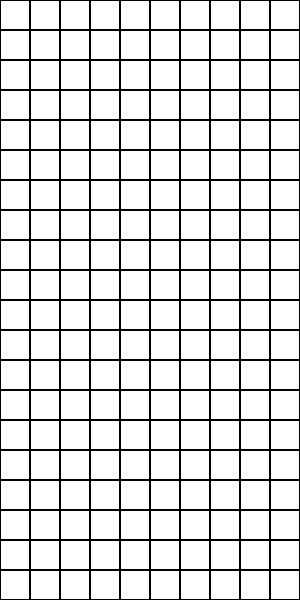
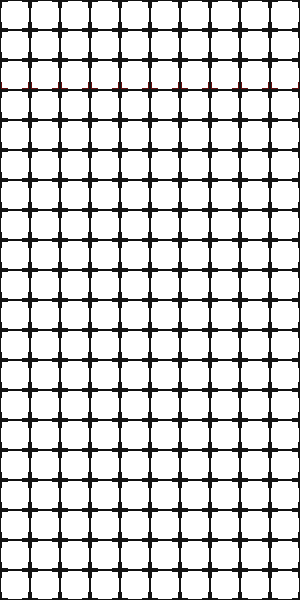
shadow blocks

diff --git a/logic/tetrisSP.ts b/logic/tetrisSP.ts
@@ -20,7 +20,7 @@ const arena: number[][] = createMatrix(10, 20); // Array(20).fill(null).map(() =
 const pieces = "IJLOSTZ";
 
 const player = {
-    pos: {x: 4, y: -6},
+    pos: {x: 4, y: -6, sy: 19},
     matrix: createPiece(""),
     followingMatrixes: [...Array(5)].map(_=>pieces[pieces.length*Math.random()|0]),
     score: 0,
@@ -62,13 +62,6 @@ const colors: object = {
     5: blockImg5,
     6: blockImg6,
     7: blockImg7,
-    // 1: '#00ffff',
-    // 2: '#0000ff',
-    // 3: '#ffa500',
-    // 4: '#ffff00',
-    // 5: '#00ff00',
-    // 6: '#ff00ff',
-    // 7: '#ff0000',
 };
 
 const playerControls = {
@@ -84,7 +77,8 @@ const playerControls = {
 
 type offsetInterface = {
     x: number,
-    y: number
+    y: number,
+    sy: number
 }
 
 type playerInterface = {
@@ -141,14 +135,13 @@ function blockHolderChange(type: string): string {
     }
 }
 
-function collide(arena: number[][], player: playerInterface) {
-    const [m, o] = [player.matrix, player.pos];
-
+function collide(arena: number[][], player: playerInterface, py: number) {
+    const [m, px] = [player.matrix, player.pos.x];
     for (let y=0; y<m.length; ++y) {
         for (let x=0; x<m[y].length; ++x) {
             if (m[y][x] !== 0 && 
-                (arena[y+o.y] && 
-                arena[y+o.y][x+o.x]) !== 0) {
+                (arena[y+py] && 
+                arena[y+py][x+px]) !== 0) {
                 return true;
             }
         }
@@ -194,13 +187,12 @@ function createPiece(type: string): number[][] {
         [0, 7, 7],
         [0, 0, 0],
     ]; else return createMatrix(3, 3);
-
 }
 
 function draw() {
     context.clearRect(0, 0, canvas.width, canvas.height);
     // context.fillStyle = "black";    // context.fillRect(0, 0, canvas.width, canvas.height);
-    drawMatrix(arena, {x: 0, y: 0})
+    drawMatrix(arena, {x: 0, y: 0, sy: 0})
     drawMatrix(player.matrix, player.pos);
 }
 
@@ -208,11 +200,21 @@ function drawMatrix(matrix:number[][], offset:offsetInterface): void {
     matrix.forEach((row, y) => {
         row.forEach((value, x) => {
             if(value != 0) {
+                context.globalAlpha = 1;
                 context.drawImage(Object(colors)[value], x + offset.x, y + offset.y, 1, 1)
+                context.globalAlpha = 0.3;
+                context.drawImage(Object(colors)[value], x + offset.x, y + offset.sy, 1, 1)
                 // context.fillStyle = Object(colors)[value];   // context.fillRect(x + offset.x, y + offset.y, 1, 1);
             }
         });
     });
+}
+
+function drawShadow() {
+    if (collide(arena, player, player.pos.sy)) 
+        player.pos.sy--;
+    else if (!collide(arena, player, player.pos.sy+1))
+        player.pos.sy++
 }
 
 function merge(arena: number[][], player: playerInterface) {
@@ -227,7 +229,7 @@ function merge(arena: number[][], player: playerInterface) {
 
 function playerDown() {
     player.pos.y++; 
-    if (collide(arena, player)) {
+    if (collide(arena, player, player.pos.y)) {
         player.pos.y--;
         merge(arena, player);
         playerReset();
@@ -238,7 +240,7 @@ function playerDown() {
 }
 
 function playerDrop() {
-    while (!collide(arena, player)) {
+    while (!collide(arena, player, player.pos.y)) {
         player.pos.y++;
     }
     player.pos.y--;
@@ -251,7 +253,7 @@ function playerDrop() {
 
 function playerMove(dir: number) {
     player.pos.x += dir;
-    if (collide(arena, player)) {
+    if (collide(arena, player, player.pos.y)) {
         player.pos.x -= dir;
     }
 }
@@ -266,7 +268,7 @@ function playerReset() {
     player.pos.x = (arena[0].length / 2 | 0) - (player.matrix[0].length / 2 | 0);
     player.useHolder = true;
 
-    if (collide(arena, player)) {
+    if (collide(arena, player, player.pos.y)) {
         arena.forEach(row => row.fill(0));
         player.score = 0;
         updateScore();
@@ -283,7 +285,7 @@ function playerRotate(dir: number) {
     const pos = player.pos.x;
     let offset = 1;
     rotate(player.matrix, dir);
-    while (collide(arena, player)) {
+    while (collide(arena, player, player.pos.y)) {
         player.pos.x += offset;
         offset = -(offset + (offset > 0 ? 1 : -1));
 
@@ -325,6 +327,7 @@ function update(time = 0) {
     }
 
     draw();
+    drawShadow();
     requestAnimationFrame(update);
 }
 

diff --git a/build/tetrisSP.js b/build/tetrisSP.js
@@ -15,7 +15,7 @@ const nextBlock5 = document.getElementById("inb5");
 const arena = createMatrix(10, 20); // Array(20).fill(null).map(() => Array(12).fill(0));
 const pieces = "IJLOSTZ";
 const player = {
-    pos: { x: 4, y: -6 },
+    pos: { x: 4, y: -6, sy: 19 },
     matrix: createPiece(""),
     followingMatrixes: [...Array(5)].map(_ => pieces[pieces.length * Math.random() | 0]),
     score: 0,
@@ -53,13 +53,6 @@ const colors = {
     5: blockImg5,
     6: blockImg6,
     7: blockImg7,
-    // 1: '#00ffff',
-    // 2: '#0000ff',
-    // 3: '#ffa500',
-    // 4: '#ffff00',
-    // 5: '#00ff00',
-    // 6: '#ff00ff',
-    // 7: '#ff0000',
 };
 const playerControls = {
     pause: "Escape",
@@ -122,13 +115,13 @@ function blockHolderChange(type) {
         default: return blockPiece0;
     }
 }
-function collide(arena, player) {
-    const [m, o] = [player.matrix, player.pos];
+function collide(arena, player, py) {
+    const [m, px] = [player.matrix, player.pos.x];
     for (let y = 0; y < m.length; ++y) {
         for (let x = 0; x < m[y].length; ++x) {
             if (m[y][x] !== 0 &&
-                (arena[y + o.y] &&
-                    arena[y + o.y][x + o.x]) !== 0) {
+                (arena[y + py] &&
+                    arena[y + py][x + px]) !== 0) {
                 return true;
             }
         }
@@ -191,18 +184,27 @@ function createPiece(type) {
 function draw() {
     context.clearRect(0, 0, canvas.width, canvas.height);
     // context.fillStyle = "black";    // context.fillRect(0, 0, canvas.width, canvas.height);
-    drawMatrix(arena, { x: 0, y: 0 });
+    drawMatrix(arena, { x: 0, y: 0, sy: 0 });
     drawMatrix(player.matrix, player.pos);
 }
 function drawMatrix(matrix, offset) {
     matrix.forEach((row, y) => {
         row.forEach((value, x) => {
             if (value != 0) {
+                context.globalAlpha = 1;
                 context.drawImage(Object(colors)[value], x + offset.x, y + offset.y, 1, 1);
+                context.globalAlpha = 0.3;
+                context.drawImage(Object(colors)[value], x + offset.x, y + offset.sy, 1, 1);
                 // context.fillStyle = Object(colors)[value];   // context.fillRect(x + offset.x, y + offset.y, 1, 1);
             }
         });
     });
+}
+function drawShadow() {
+    if (collide(arena, player, player.pos.sy))
+        player.pos.sy--;
+    else if (!collide(arena, player, player.pos.sy + 1))
+        player.pos.sy++;
 }
 function merge(arena, player) {
     player.matrix.forEach((row, y) => {
@@ -215,7 +217,7 @@ function merge(arena, player) {
 }
 function playerDown() {
     player.pos.y++;
-    if (collide(arena, player)) {
+    if (collide(arena, player, player.pos.y)) {
         player.pos.y--;
         merge(arena, player);
         playerReset();
@@ -225,7 +227,7 @@ function playerDown() {
     dropCounter = 0;
 }
 function playerDrop() {
-    while (!collide(arena, player)) {
+    while (!collide(arena, player, player.pos.y)) {
         player.pos.y++;
     }
     player.pos.y--;
@@ -237,7 +239,7 @@ function playerDrop() {
 }
 function playerMove(dir) {
     player.pos.x += dir;
-    if (collide(arena, player)) {
+    if (collide(arena, player, player.pos.y)) {
         player.pos.x -= dir;
     }
 }
@@ -250,7 +252,7 @@ function playerReset() {
     player.pos.y = 0;
     player.pos.x = (arena[0].length / 2 | 0) - (player.matrix[0].length / 2 | 0);
     player.useHolder = true;
-    if (collide(arena, player)) {
+    if (collide(arena, player, player.pos.y)) {
         arena.forEach(row => row.fill(0));
         player.score = 0;
         updateScore();
@@ -265,7 +267,7 @@ function playerRotate(dir) {
     const pos = player.pos.x;
     let offset = 1;
     rotate(player.matrix, dir);
-    while (collide(arena, player)) {
+    while (collide(arena, player, player.pos.y)) {
         player.pos.x += offset;
         offset = -(offset + (offset > 0 ? 1 : -1));
         if (offset > player.matrix[0].length) {
@@ -303,6 +305,7 @@ function update(time = 0) {
         playerDown();
     }
     draw();
+    drawShadow();
     requestAnimationFrame(update);
 }
 function updateScore() {

diff --git a/css/style.css b/css/style.css
@@ -197,7 +197,7 @@ div#gameScore {
 }
 
 #canvasPlay {
-    background-image: url("../res/grid.jpg");
+    background-image: url("../res/grid.png");
     background-size: cover;                      
     background-repeat: no-repeat;
     background-position: center center;

diff --git a/README.md b/README.md
@@ -4,3 +4,7 @@
 > https://kire27.github.io/tetriso/
 
 ##### Tetris web game with single-player and multiplayer mode.
+
+git add .
+git commit "..."
+git push -u origin main
